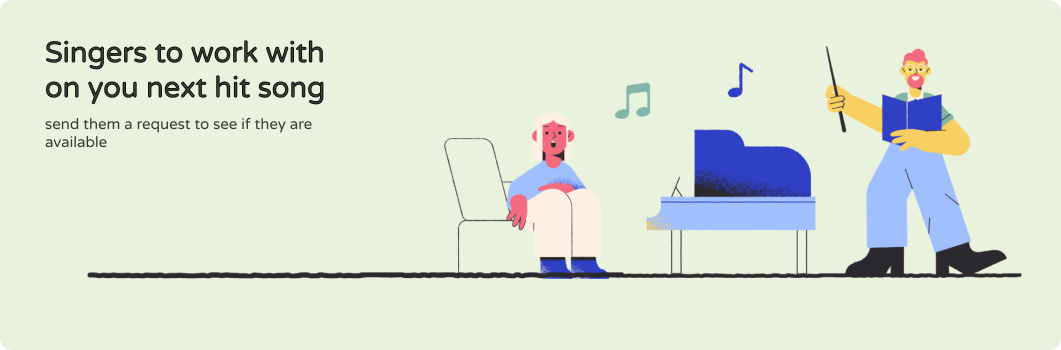
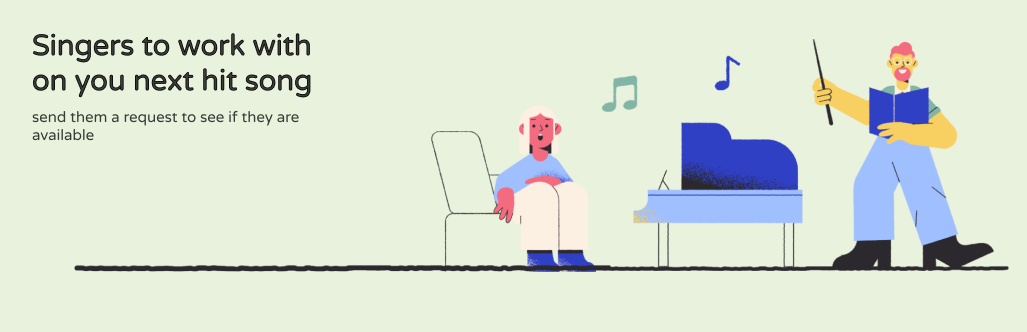
added css for listing page

diff --git a/pages/discover-artist/[id].tsx b/pages/discover-artist/[id].tsx
@@ -12,6 +12,8 @@ import { Dispatch } from "redux";
 import { connect, ConnectedProps } from "react-redux";
 import { useEffect } from "react";
 import * as action from "../../state/action/categoryAction";
+import { EditOutlined, EllipsisOutlined, SettingOutlined } from '@ant-design/icons';
+
 const { Meta } = Card;
 
 const mapStateToProps = (state: AppState) => {
@@ -54,7 +56,9 @@ const DiscoverArtist = ({
           <div
             key={index}
             className="col-6 col-sm-6 col-md-6 col-lg-4 col-xl-3"
-            style={{ padding: "1rem" }}
+            style={{ 
+              padding: "2rem"
+            }}
           >
             <Link
               key={index}
@@ -63,17 +67,27 @@ const DiscoverArtist = ({
             >
               <Card
                 hoverable
-                style={{ height: "100%" }}
+                // className="discoverArtists__artistsContainer"
+                style={{ 
+                  height: "100%",
+                  //borderRadius: "15px",
+                  textAlign: "center",
+                  alignItems: "center",
+                  backgroundColor: "rgb(0 0 0 / 2%)",
+                }}
                 cover={
                 <Image 
                   src={artist?.profile_pic_url} 
                   alt="cards" 
-                  height={328}
+                  height={228}
                   width={242}
                   />
                 }
               >
-                <Meta title={artist.first_name} />
+                <Meta 
+                  title={artist.first_name} 
+                  description={artist.bio}
+                />
               </Card>
             </Link>
           </div>
@@ -87,14 +101,17 @@ const DiscoverArtist = ({
   return (
     <>
       <Title title="Discover Artist" />
-      <div className="fluid dynamic-artist-page">
-        <div className="row" style={{ paddingTop: "6rem" }}>
-          <Image src={landingPageImg} alt="Landing page" />
-        </div>
-        {/* <h1>Artist Page Dynamic <strong>{id.toUpperCase()}</strong></h1> */}
-        <div className="row" style={{ paddingTop: "2rem" }}>
-          {getArtists()}
-        </div>
+      <div className="fluid discoverArtists__listingContainer" style={{ marginTop: "10%", marginBottom: "15%" }}>
+          <div className="discoverArtists__coverContainer">
+            <Image 
+              layout="responsive" 
+              objectFit="contain"
+              src={landingPageImg} 
+              alt="Landing page" />
+          </div>
+          <div className="row">
+            {getArtists()}
+          </div>
       </div>
     </>
   );

diff --git a/styles/listingArtists.scss b/styles/listingArtists.scss
@@ -1,0 +1,46 @@
+
+.discoverArtists__listingContainer {
+    //display: flex;
+    //padding: 200px;
+    position: relative;
+    margin: auto;
+    flex-direction: column;
+    width: 70%;
+    transition: 0.3s;
+    border-radius: 5px;  
+}
+
+.discoverArtists__coverContainer { 
+    width: '100%';
+    height: '100%';
+    border: 1px solid rgb(0 0 0 / 10%);
+    border-radius: 5px;
+}
+
+.discoverArtists__artistsContainer {
+    height: "100%";
+    border-radius: "15px";
+    text-align: "center";
+    align-items: "center";
+    background-color: "grey";
+}
+
+// .sampleTile__imageTileContainer {
+//     //border-radius: 15px;
+//     width: 250px;
+//     min-height: 200px;
+//     padding: 1px;
+//     border-radius: 12px;
+//     position: relative;
+//     box-shadow: 0px 1px 2px rgb(0 0 0 / 8%), 0px 4px 12px rgb(0 0 0 / 5%);
+// }
+
+// .sampleTile__imageTile {
+//     cursor: pointer;
+//     border-radius: 12px;
+//     padding: 4px;
+//     box-shadow: 0px 1px 2px rgb(0 0 0 / 8%), 0px 4px 12px rgb(0 0 0 / 5%);
+//     width: 100%;
+//     height: 100%;
+//     object-fit: scale;
+// }

diff --git a/config/routes.ts b/config/routes.ts
@@ -5,7 +5,7 @@ import { Config } from './config';
 export const routes: AppRouteCreators = {
   toWondorHome: () => ({ href: "/" }),
   toDiscover: () => ({ href: "/" }),
-  toArtist: (slug: string) => ({ href: "/discover-artist/" }),
+  toArtist: () => ({ href: "/discover-artist/" }),
   toAboutUs: () => ({ href: "/about-us"}),
   toFAQ: () => ({ href: "faq"}),
   toPrivacy: () => ({ href: "/privacy" }),

diff --git a/styles/index.scss b/styles/index.scss
@@ -11,6 +11,7 @@
 @import "./components/samplePage.scss";
 @import "./components/sampleTile.scss";
 @import "./components/confirmationModal.scss";
+@import "listingArtists.scss";
 
 .cursor-pointer {
     cursor: pointer;
